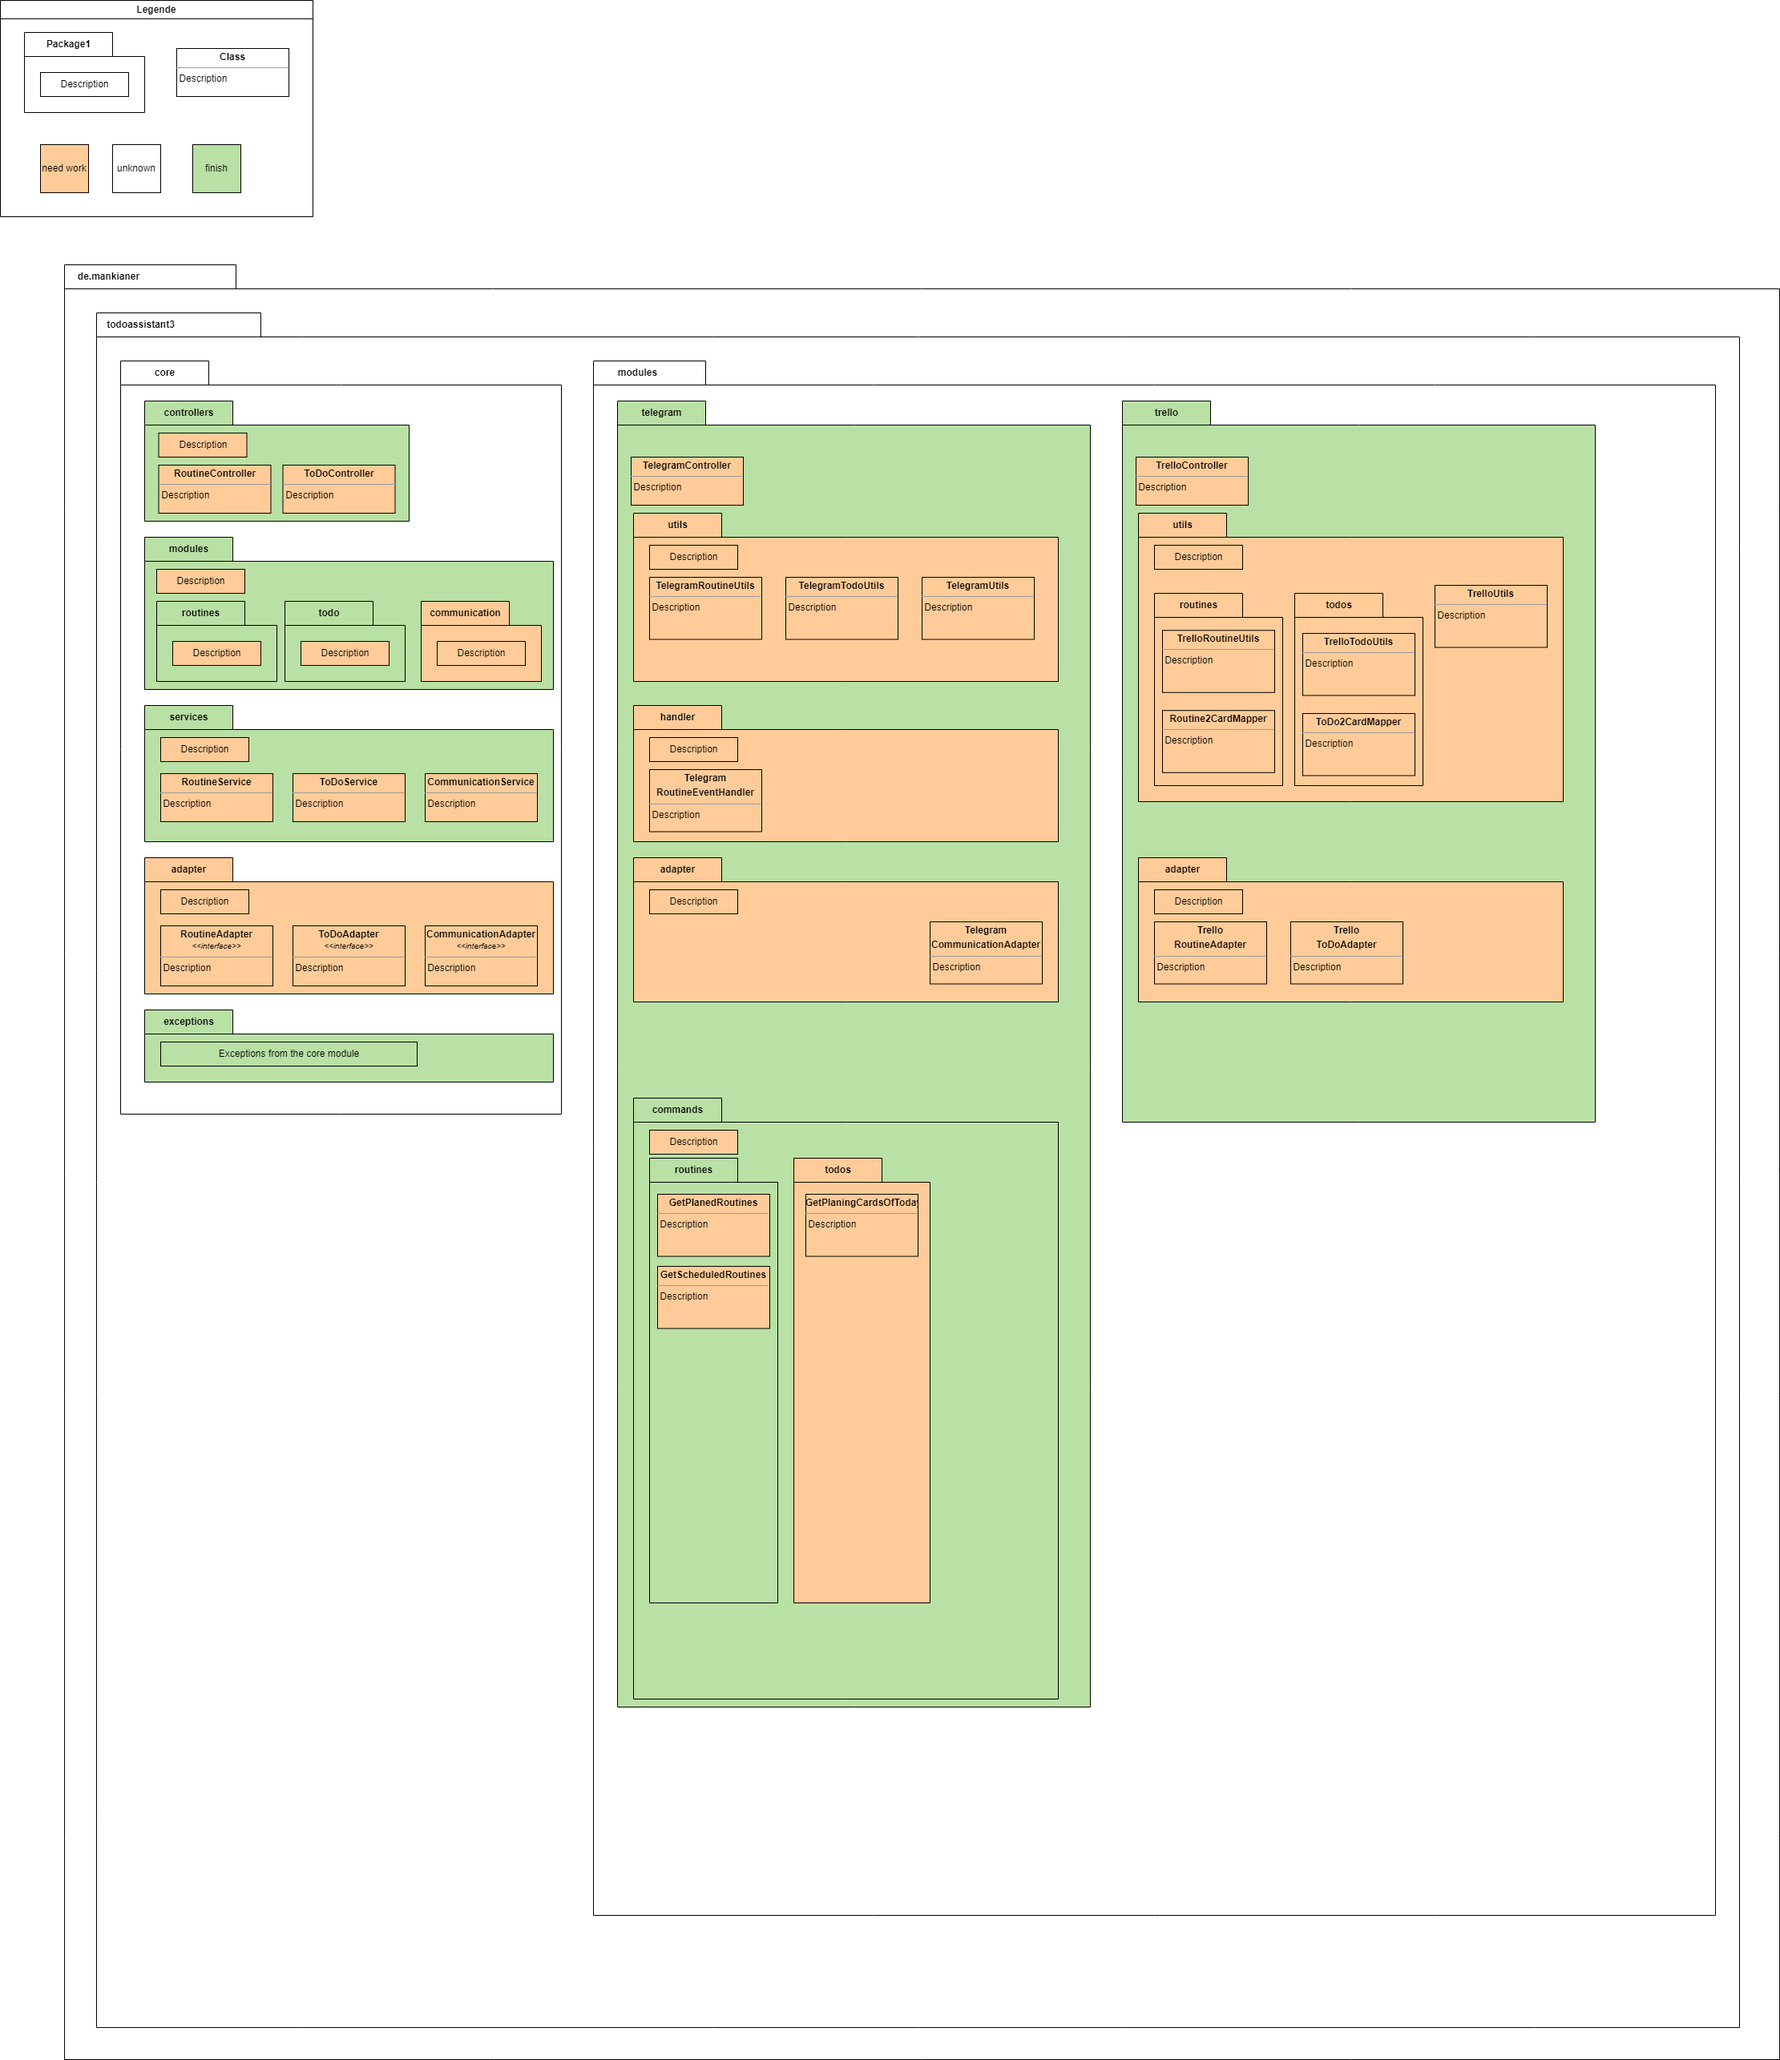
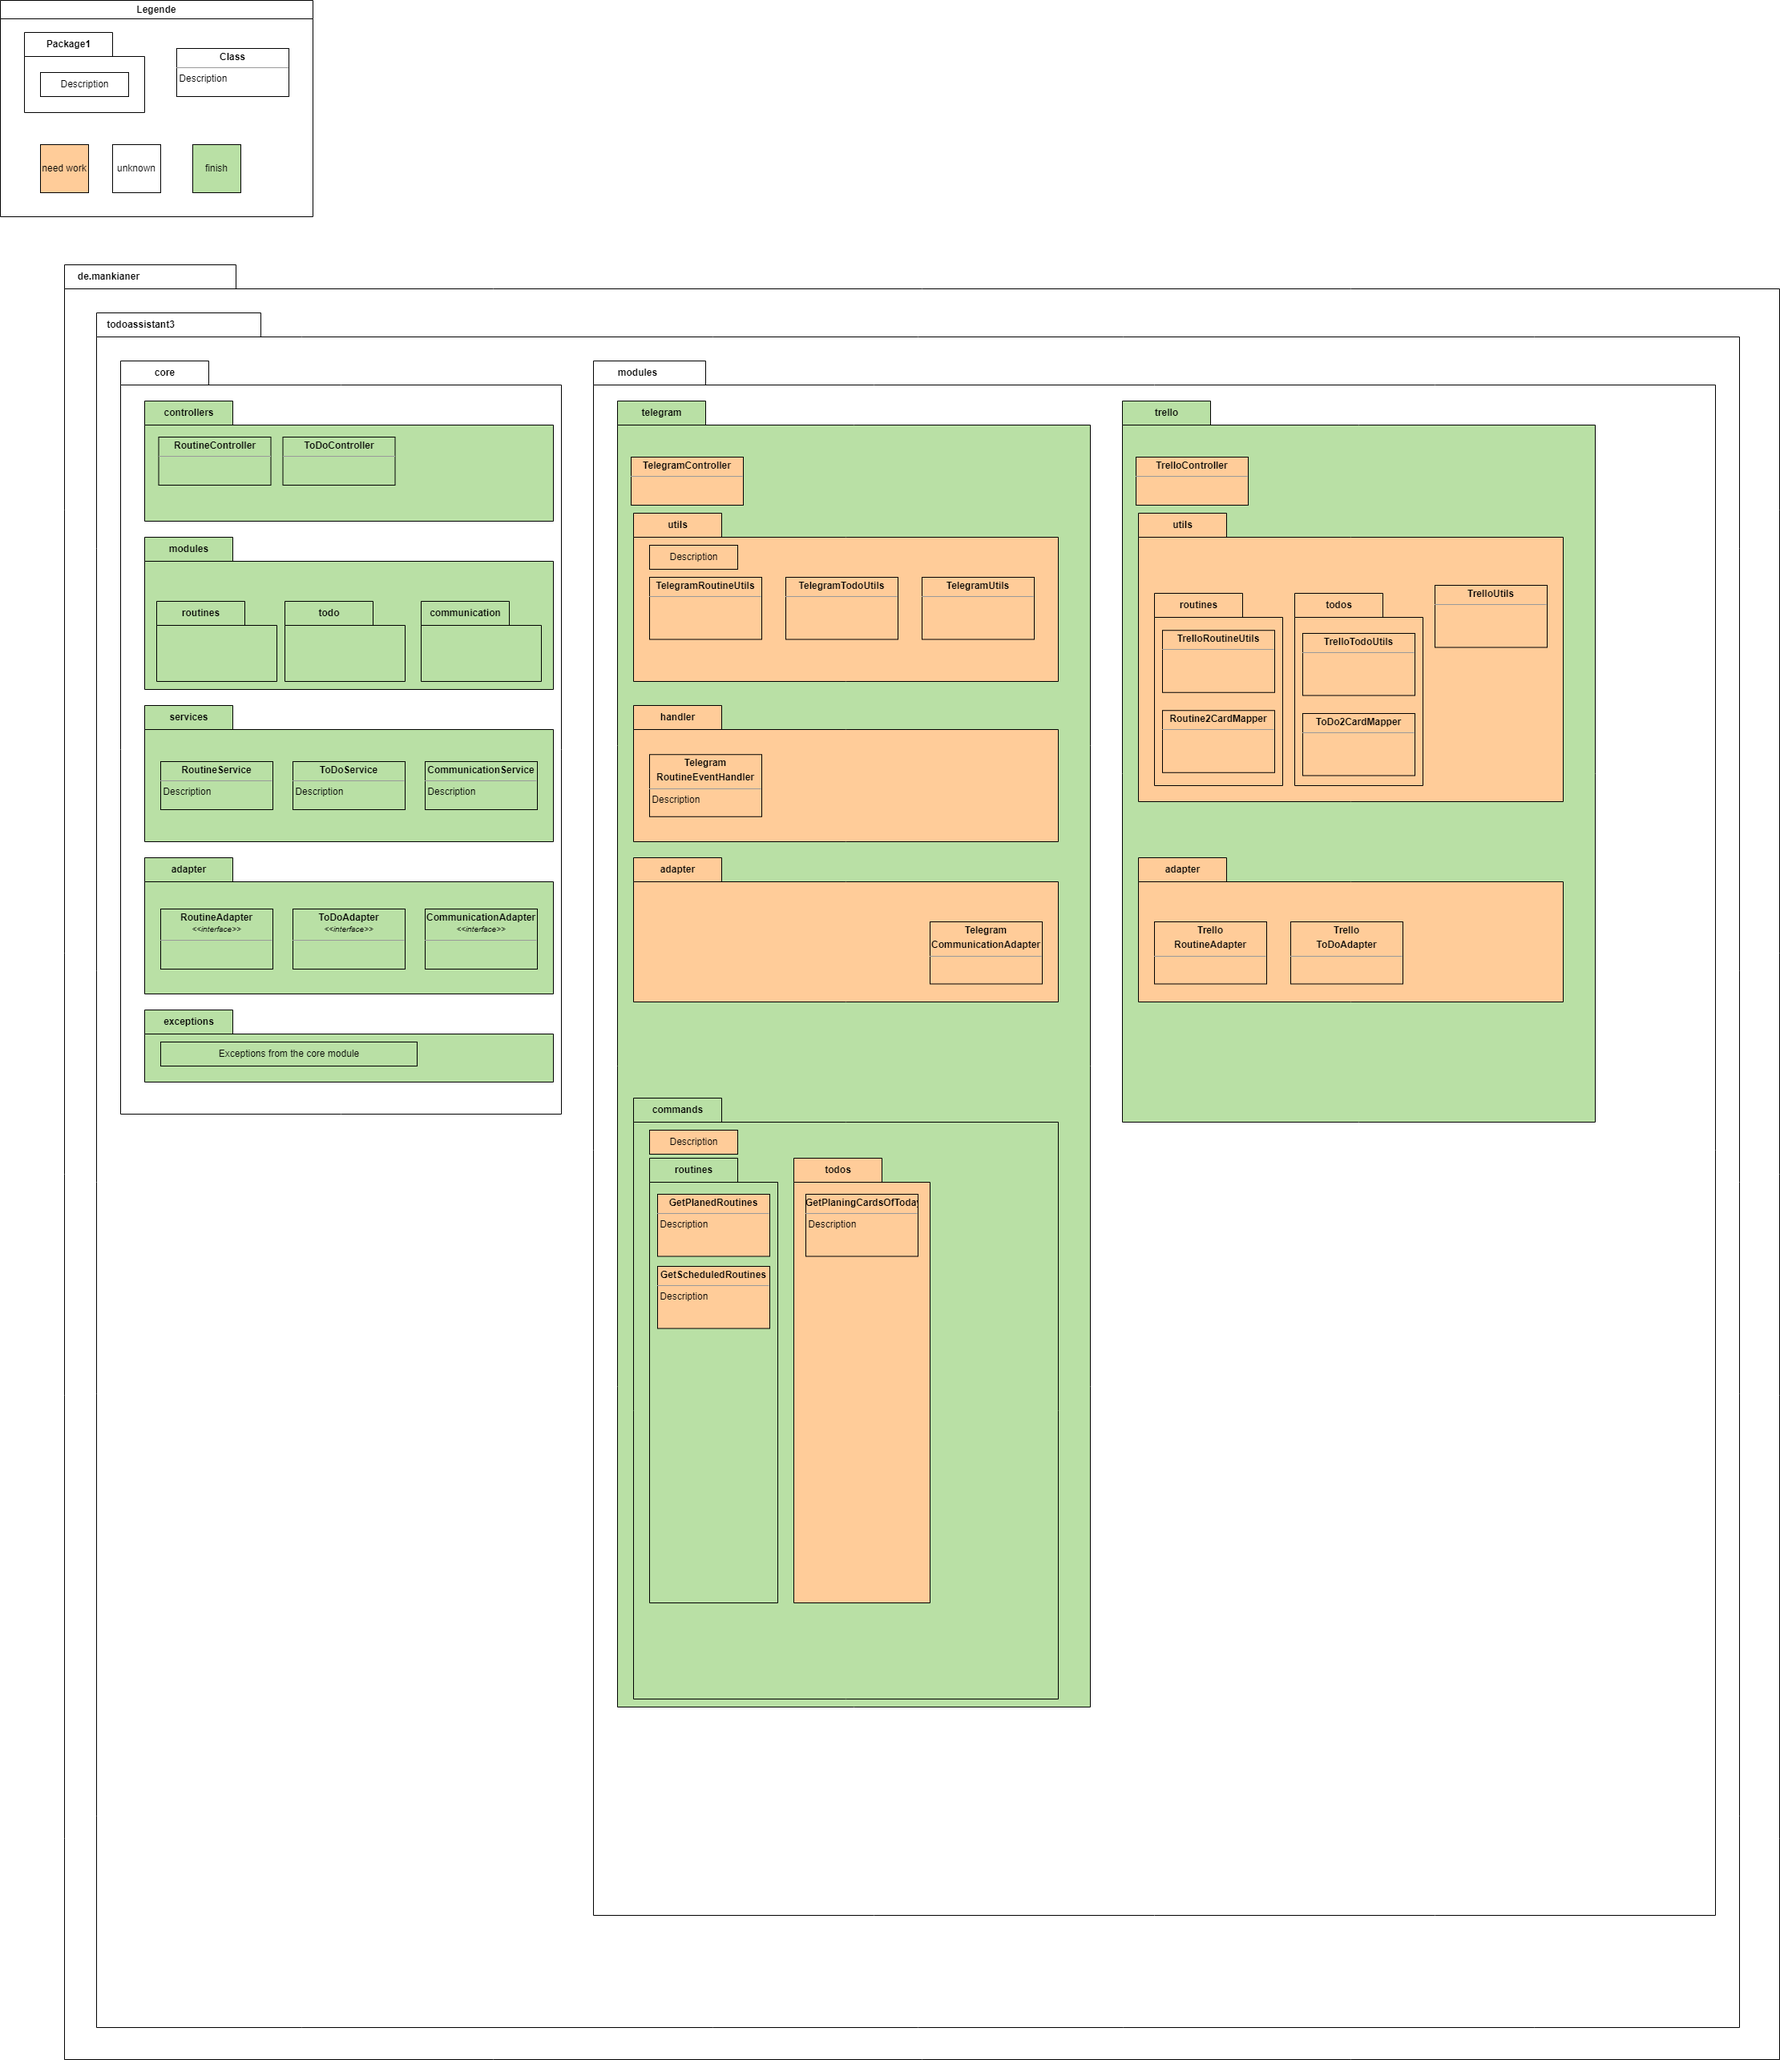
refactor Core-packages

Changed region(s): [[0.0621, 0.1867, 0.3107, 0.4979], [0.3728, 0.3423, 0.4349, 0.4045]]

diff --git a/src/main/java/de/mankianer/todoassistant3/modules/telegram/TelegramController.java b/src/main/java/de/mankianer/todoassistant3/modules/telegram/TelegramController.java
@@ -2,13 +2,13 @@ package de.mankianer.todoassistant3.modules.telegram;
 
 import de.mankianer.mankianerstelegramspringstarter.TelegramService;
 import de.mankianer.mankianerstelegramspringstarter.commands.models.TelegramInUpdate;
+import de.mankianer.todoassistant3.core.adapter.CommunicationAdapter;
 import de.mankianer.todoassistant3.core.exceptions.CouldNotCreateException;
-import de.mankianer.todoassistant3.core.models.message.Message;
+import de.mankianer.todoassistant3.core.models.communication.Message;
 import de.mankianer.todoassistant3.core.models.routines.Routine;
 import de.mankianer.todoassistant3.core.models.todo.ToDo;
-import de.mankianer.todoassistant3.core.services.communication.CommunicationAdapter;
-import de.mankianer.todoassistant3.core.services.routines.RoutineService;
-import de.mankianer.todoassistant3.core.services.todo.ToDoService;
+import de.mankianer.todoassistant3.core.services.RoutineService;
+import de.mankianer.todoassistant3.core.services.ToDoService;
 import de.mankianer.todoassistant3.modules.telegram.commands.routines.GetPlanedRoutines;
 import org.springframework.stereotype.Component;
 import org.telegram.telegrambots.meta.api.methods.send.SendMessage;

diff --git a/src/main/java/de/mankianer/todoassistant3/modules/trello/routines/TrelloRoutineService.java b/src/main/java/de/mankianer/todoassistant3/modules/trello/routines/TrelloRoutineService.java
@@ -6,10 +6,10 @@ import com.julienvey.trello.domain.Card;
 import com.julienvey.trello.domain.TList;
 import com.julienvey.trello.impl.TrelloImpl;
 import com.julienvey.trello.impl.http.ApacheHttpClient;
+import de.mankianer.todoassistant3.core.adapter.RoutineAdapter;
 import de.mankianer.todoassistant3.core.exceptions.CouldNotCreateException;
 import de.mankianer.todoassistant3.core.models.routines.Routine;
 import de.mankianer.todoassistant3.core.models.routines.RoutineStatus;
-import de.mankianer.todoassistant3.core.services.routines.RoutineAdapter;
 import lombok.extern.log4j.Log4j2;
 import org.springframework.beans.factory.annotation.Value;
 import org.springframework.stereotype.Service;

diff --git a/src/main/java/de/mankianer/todoassistant3/modules/trello/todo/TrelloToDoService.java b/src/main/java/de/mankianer/todoassistant3/modules/trello/todo/TrelloToDoService.java
@@ -7,10 +7,10 @@ import com.julienvey.trello.domain.TList;
 import com.julienvey.trello.impl.TrelloImpl;
 import com.julienvey.trello.impl.http.ApacheHttpClient;
 import de.mankianer.todoassistant3.Utils;
+import de.mankianer.todoassistant3.core.adapter.ToDoAdapter;
 import de.mankianer.todoassistant3.core.exceptions.CouldNotCreateException;
 import de.mankianer.todoassistant3.core.models.todo.ToDo;
 import de.mankianer.todoassistant3.core.models.todo.ToDoStatus;
-import de.mankianer.todoassistant3.core.services.todo.ToDoAdapter;
 import lombok.Getter;
 import lombok.extern.log4j.Log4j2;
 import org.springframework.beans.factory.annotation.Value;

diff --git a/src/main/java/de/mankianer/todoassistant3/modules/trello/TrelloController.java b/src/main/java/de/mankianer/todoassistant3/modules/trello/TrelloController.java
@@ -1,7 +1,7 @@
 package de.mankianer.todoassistant3.modules.trello;
 
-import de.mankianer.todoassistant3.core.models.message.Message;
-import de.mankianer.todoassistant3.core.services.communication.CommunicationService;
+import de.mankianer.todoassistant3.core.models.communication.Message;
+import de.mankianer.todoassistant3.core.services.CommunicationService;
 import de.mankianer.todoassistant3.modules.trello.routines.TrelloRoutineService;
 import de.mankianer.todoassistant3.modules.trello.todo.TrelloToDoService;
 import lombok.extern.log4j.Log4j2;

diff --git a/src/main/java/de/mankianer/todoassistant3/modules/telegram/commands/routines/GetPlanedRoutines.java b/src/main/java/de/mankianer/todoassistant3/modules/telegram/commands/routines/GetPlanedRoutines.java
@@ -5,7 +5,7 @@ import de.mankianer.mankianerstelegramspringstarter.commands.models.TelegramComm
 import de.mankianer.mankianerstelegramspringstarter.commands.models.TelegramInMessage;
 import de.mankianer.todoassistant3.core.models.routines.Routine;
 import de.mankianer.todoassistant3.core.models.routines.RoutineStatus;
-import de.mankianer.todoassistant3.core.services.routines.RoutineService;
+import de.mankianer.todoassistant3.core.services.RoutineService;
 import lombok.extern.log4j.Log4j2;
 import org.springframework.stereotype.Component;
 

diff --git a/src/main/java/de/mankianer/todoassistant3/modules/telegram/commands/routines/GetScheduledRoutines.java b/src/main/java/de/mankianer/todoassistant3/modules/telegram/commands/routines/GetScheduledRoutines.java
@@ -5,7 +5,7 @@ import de.mankianer.mankianerstelegramspringstarter.commands.models.TelegramComm
 import de.mankianer.mankianerstelegramspringstarter.commands.models.TelegramInMessage;
 import de.mankianer.todoassistant3.core.models.routines.Routine;
 import de.mankianer.todoassistant3.core.models.routines.RoutineStatus;
-import de.mankianer.todoassistant3.core.services.routines.RoutineService;
+import de.mankianer.todoassistant3.core.services.RoutineService;
 import lombok.extern.log4j.Log4j2;
 import org.springframework.stereotype.Component;
 

diff --git a/src/main/java/de/mankianer/todoassistant3/core/controllers/RoutineController.java b/src/main/java/de/mankianer/todoassistant3/core/controllers/RoutineController.java
@@ -1,7 +1,7 @@
 package de.mankianer.todoassistant3.core.controllers;
 
-import de.mankianer.todoassistant3.core.services.communication.CommunicationService;
-import de.mankianer.todoassistant3.core.services.routines.RoutineService;
+import de.mankianer.todoassistant3.core.services.CommunicationService;
+import de.mankianer.todoassistant3.core.services.RoutineService;
 import lombok.extern.log4j.Log4j2;
 import org.springframework.beans.factory.annotation.Autowired;
 import org.springframework.beans.factory.annotation.Value;

diff --git a/src/main/java/de/mankianer/todoassistant3/core/controllers/ToDoController.java b/src/main/java/de/mankianer/todoassistant3/core/controllers/ToDoController.java
@@ -1,7 +1,7 @@
 package de.mankianer.todoassistant3.core.controllers;
 
-import de.mankianer.todoassistant3.core.services.communication.CommunicationService;
-import de.mankianer.todoassistant3.core.services.todo.ToDoService;
+import de.mankianer.todoassistant3.core.services.CommunicationService;
+import de.mankianer.todoassistant3.core.services.ToDoService;
 import lombok.extern.log4j.Log4j2;
 import org.springframework.beans.factory.annotation.Autowired;
 import org.springframework.stereotype.Service;

diff --git a/src/main/java/de/mankianer/todoassistant3/modules/telegram/commands/GetPlaningCardsOfToday.java b/src/main/java/de/mankianer/todoassistant3/modules/telegram/commands/GetPlaningCardsOfToday.java
@@ -6,7 +6,7 @@ import de.mankianer.mankianerstelegramspringstarter.commands.models.TelegramConv
 import de.mankianer.mankianerstelegramspringstarter.commands.models.TelegramInMessage;
 import de.mankianer.todoassistant3.Utils;
 import de.mankianer.todoassistant3.core.models.todo.ToDoStatus;
-import de.mankianer.todoassistant3.core.services.todo.ToDoService;
+import de.mankianer.todoassistant3.core.services.ToDoService;
 import org.springframework.stereotype.Component;
 
 import java.time.LocalDateTime;

diff --git a/src/main/java/de/mankianer/todoassistant3/core/services/CommunicationService.java b/src/main/java/de/mankianer/todoassistant3/core/services/CommunicationService.java
@@ -1,6 +1,7 @@
-package de.mankianer.todoassistant3.core.services.communication;
+package de.mankianer.todoassistant3.core.services;
 
-import de.mankianer.todoassistant3.core.models.message.Message;
+import de.mankianer.todoassistant3.core.adapter.CommunicationAdapter;
+import de.mankianer.todoassistant3.core.models.communication.Message;
 import org.springframework.beans.factory.ObjectProvider;
 import org.springframework.stereotype.Service;
 

diff --git a/src/main/java/de/mankianer/todoassistant3/core/services/RoutineService.java b/src/main/java/de/mankianer/todoassistant3/core/services/RoutineService.java
@@ -1,5 +1,6 @@
-package de.mankianer.todoassistant3.core.services.routines;
+package de.mankianer.todoassistant3.core.services;
 
+import de.mankianer.todoassistant3.core.adapter.RoutineAdapter;
 import de.mankianer.todoassistant3.core.exceptions.CouldNotCreateException;
 import de.mankianer.todoassistant3.core.models.routines.Routine;
 import de.mankianer.todoassistant3.core.models.routines.RoutineStatus;

diff --git a/src/main/java/de/mankianer/todoassistant3/core/services/ToDoService.java b/src/main/java/de/mankianer/todoassistant3/core/services/ToDoService.java
@@ -1,5 +1,6 @@
-package de.mankianer.todoassistant3.core.services.todo;
+package de.mankianer.todoassistant3.core.services;
 
+import de.mankianer.todoassistant3.core.adapter.ToDoAdapter;
 import de.mankianer.todoassistant3.core.exceptions.CouldNotCreateException;
 import de.mankianer.todoassistant3.core.models.todo.ToDo;
 import de.mankianer.todoassistant3.core.models.todo.ToDoStatus;
